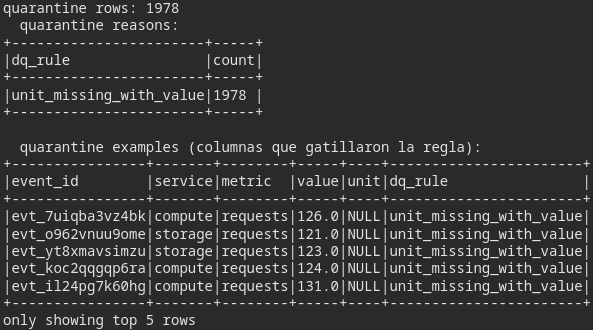
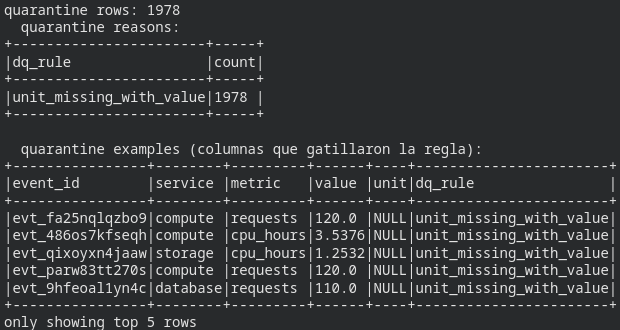
Quarantine raw Bronze rows before enrichment + show examples

Changed region(s): [[0.0, 0.4242, 1.0, 1.0], [0.0, 0.0, 0.4553, 0.2424], [0.0, 0.2727, 0.4553, 0.3636]]

diff --git a/segundo-parcial/pipeline.py b/segundo-parcial/pipeline.py
@@ -249,17 +249,19 @@ print("bronze events rows:", bronze_events_count)
 # %% [markdown]
 # ## Silver — conformance, enriquecimiento, calidad de datos, flags de anomalía
 #
-# Transformaciones puras de `cpa`:
-# 1. `conform_and_enrich` — conformance v1/v2, features, broadcast LEFT join al
-#    maestro de organizaciones.
+# Transformaciones puras de `cpa`, en este orden:
+# 1. `conform` — conformance v1/v2 + features, sin join dimensional.
 # 2. `apply_dq_rules` — separa limpios vs quarantine (R1 event_id nulo, R3 value
-#    sin unit); el costo negativo (R2) se conserva y se marca, no se pone en
-#    quarantine.
-# 3. `flag_cost_anomalies` — `cost_anomaly_flag` por costo negativo O outliers
+#    sin unit) sobre los eventos crudos conformados; el costo negativo (R2) se
+#    conserva y se marca, no se pone en quarantine.
+# 3. `enrich` — broadcast LEFT join al maestro de organizaciones, solo sobre las
+#    filas limpias.
+# 4. `flag_cost_anomalies` — `cost_anomaly_flag` por costo negativo O outliers
 #    p01/p99 por servicio.
 #
-# Las filas en quarantine (con un motivo `dq_rule`) van a una zona separada como
-# muestras.
+# La compuerta de calidad vive en la transición Bronze→Silver: las filas en
+# quarantine (con un motivo `dq_rule`) son eventos crudos de Bronze y van a una
+# zona separada como muestras.
 
 
 # %%
@@ -278,9 +280,12 @@ def read_latest_master(name: str):
 events_b = spark.read.parquet(str(BRONZE / "usage_events"))
 orgs_b = read_latest_master("customers_orgs")
 
-enriched = cpa.conform_and_enrich(events_b, orgs_b)
-clean, quarantine = cpa.apply_dq_rules(enriched)
-silver = cpa.flag_cost_anomalies(clean)
+# La compuerta de calidad corre sobre los eventos crudos conformados (antes del
+# join): las filas en quarantine son eventos de Bronze, sin enriquecer. Solo las
+# limpias se enriquecen y siguen a Silver.
+conformed = cpa.conform(events_b)
+clean, quarantine = cpa.apply_dq_rules(conformed)
+silver = cpa.flag_cost_anomalies(cpa.enrich(clean, orgs_b))
 
 (
     silver.write.mode("overwrite")

diff --git a/segundo-parcial/cpa.py b/segundo-parcial/cpa.py
@@ -199,25 +199,38 @@ ORG_ENRICH_COLS = ["org_name", "plan_tier", "industry", "hq_region"]
 NEG_COST_THRESHOLD = -0.01
 
 
-def conform_and_enrich(events: DataFrame, orgs: DataFrame) -> DataFrame:
-    """Conform v1/v2 events, derive features, and enrich with org attributes.
+def conform(events: DataFrame) -> DataFrame:
+    """Conform v1/v2 events and derive features — no dimensional join.
 
     - ``event_date`` derived from the event timestamp.
     - ``genai_tokens`` coalesced to 0 (null = not reported / non-genai; 0 is the
       additive identity for summing).
     - ``carbon_kg`` kept as-is (null for v1 — not fabricated).
     - Features: ``cost_usd``, ``genai_tokens``, ``carbon_kg``, ``requests``.
-    - Broadcast LEFT join to the org master so events with an unknown ``org_id``
-      survive with null org attributes.
+
+    The data-quality split (:func:`apply_dq_rules`) runs on this conformed output,
+    so quarantined rows are raw Bronze events — not yet enriched.
     """
-    enriched = (
+    return (
         events.withColumn("event_date", F.to_date("timestamp"))
         .withColumn("genai_tokens", F.coalesce(F.col("genai_tokens"), F.lit(0)))
         .withColumn("cost_usd", F.col("cost_usd_increment"))
         .withColumn("requests", F.when(F.col("metric") == "requests", F.col("value")))
     )
+
+
+def enrich(events: DataFrame, orgs: DataFrame) -> DataFrame:
+    """Broadcast LEFT join to the org master.
+
+    LEFT so events with an unknown ``org_id`` survive with null org attributes.
+    """
     orgs_dim = orgs.select("org_id", *ORG_ENRICH_COLS)
-    return enriched.join(F.broadcast(orgs_dim), on="org_id", how="left")
+    return events.join(F.broadcast(orgs_dim), on="org_id", how="left")
+
+
+def conform_and_enrich(events: DataFrame, orgs: DataFrame) -> DataFrame:
+    """Conform v1/v2 events and enrich with org attributes (conform + enrich)."""
+    return enrich(conform(events), orgs)
 
 
 def apply_dq_rules(df: DataFrame) -> tuple[DataFrame, DataFrame]:

diff --git a/segundo-parcial/README.md b/segundo-parcial/README.md
@@ -61,9 +61,9 @@ flowchart LR
 
     CSV -->|batch| BM
     JSONL -->|Structured Streaming<br/>watermark, dedup, checkpoint| BE
+    BE -.->|reglas DQ R1/R3| Q
+    BE -->|conform + DQ| SE
     BM -->|broadcast join último snapshot| SE
-    BE -->|conform + enrich| SE
-    SE -.->|reglas DQ R1/R3| Q
     SE -->|agregación| GD --> G14
     GD -->|upsert| T1
     G14 -->|truncate+load| T2